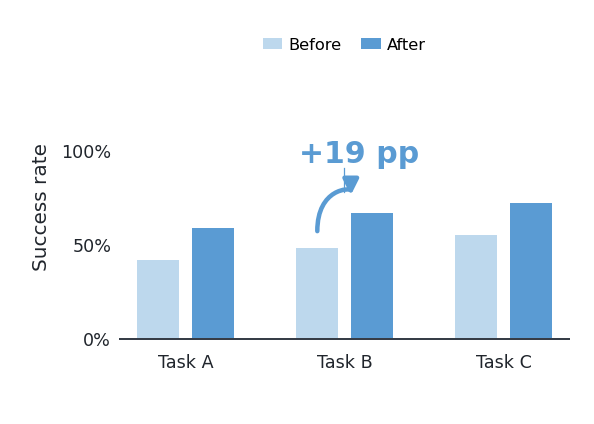
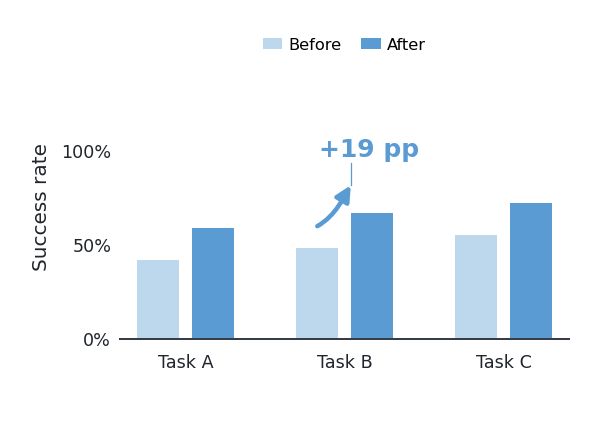
fix(render): make curved delta rise into the target bar

Changed region(s): [[0.5152, 0.3066, 0.7273, 0.5519]]

diff --git a/research-figure-skill/quantitative-plots/grouped-bar/scripts/render.py b/research-figure-skill/quantitative-plots/grouped-bar/scripts/render.py
@@ -736,9 +736,19 @@ def gain_route(start, end, ceiling, lift):
 
 
 def gain_route_arc(start, end, ceiling):
-    """One smooth cubic arch; used when gain.arrow_style == 'curved'."""
+    """One smooth cubic arch; kept for compatibility with the first curved draft."""
     vertices = [start, [start[0], ceiling], [end[0], ceiling], end]
     return MplPath(vertices, [MplPath.MOVETO, MplPath.CURVE4, MplPath.CURVE4, MplPath.CURVE4])
+
+
+def gain_route_curved(start, end, rise):
+    """A rising cubic whose end tangent points up-right instead of hooking down."""
+    dx, dy = end[0]-start[0], end[1]-start[1]
+    sign = 1 if dy >= 0 else -1
+    c1 = [start[0]+dx*.55, start[1]+sign*rise]
+    c2 = [end[0]-dx*.18, end[1]-sign*rise]
+    return MplPath([start, c1, c2, end],
+                   [MplPath.MOVETO, MplPath.CURVE4, MplPath.CURVE4, MplPath.CURVE4])
 
 
 def add_auto_gain(fig, spec, artists, config, font_dir):
@@ -783,6 +793,10 @@ def add_auto_gain(fig, spec, artists, config, font_dir):
                 y = max(y, obstacle.y1+clearance)
         return np.array([x, y])
     start, end = anchor(before, spec['tail_anchor']), anchor(after, spec['tip_anchor'])
+    if spec.get('arrow_style') == 'curved':
+        # End above the bar top; otherwise the rising tip has to enter the bar to point up-right.
+        start = start + np.array([0, 2])
+        end = end + np.array([0, 4])
     left, right = sorted((start[0], end[0]))
     across, change = abs(end[0]-start[0]), end[1]-start[1]
     lift = min(3., across*.06)
@@ -793,8 +807,10 @@ def add_auto_gain(fig, spec, artists, config, font_dir):
     style = spec.get('arrow_style', 'route')
     if style not in ('route', 'curved'):
         raise ValueError('gain.arrow_style must be route or curved')
+    rise = max(4., abs(across)*.12, abs(change)*.25)
     for attempt in range(8):
-        path = gain_route_arc(start, end, ceiling) if style == 'curved' else gain_route(start, end, ceiling, lift)
+        path = (gain_route_curved(start, end, rise) if style == 'curved'
+                else gain_route(start, end, ceiling, lift))
         points = sample_cubic_path(path)
         bad = (np.any(points[:, 0] < inner.x0) or np.any(points[:, 0] > inner.x1) or
                np.any(points[:, 1] < inner.y0) or np.any(points[:, 1] > inner.y1) or
@@ -803,7 +819,7 @@ def add_auto_gain(fig, spec, artists, config, font_dir):
             break
         if style != 'curved' or attempt == 7:
             raise ValueError('No collision-free delta path inside panel; increase y_max or figure height')
-        ceiling += 2
+        rise += 3
 
     color = spec['color'] or config['palette'][after['series']][spec['palette_part']]
     value = (after['value']-before['value'])*spec['label_scale']

diff --git a/research-figure-skill/examples/axis-review/render_review.py b/research-figure-skill/examples/axis-review/render_review.py
@@ -416,7 +416,7 @@ def annotations():
     cfg = config(paired, layout="paired", colors=PAIRS["blue"], labels=LABELS2)
     cfg["gains"] = [{"from": "b-b", "to": "a-b", "label_format": "+.0f",
                      "label_scale": 100, "label_suffix": " pp"}]
-    cfg["gain_defaults"] = {"arrow_style": "curved"}
+    cfg["gain_defaults"] = {"arrow_style": "curved", "label_size": 10, "linewidth": 1.8}
     img = render_panel(paired, cfg, "annotation-delta")
     items.append({"image": img, "label": "curved delta", "note": "arrow between paired bars"})
 
